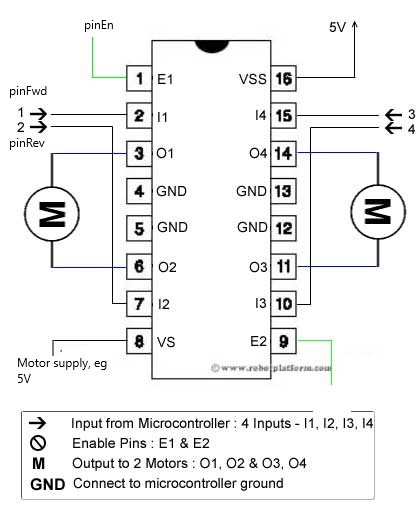
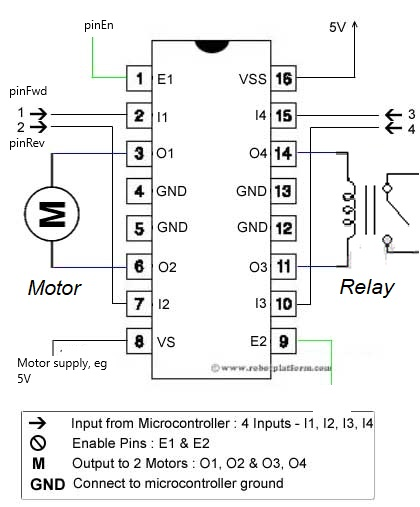
Updated readme and Circuits

Changed region(s): [[0.8048, 0.2959, 1.0, 0.5917], [0.0619, 0.5325, 0.1857, 0.5917]]

diff --git a/README.md b/README.md
@@ -24,7 +24,7 @@ Whereas the samples therein (from which this is taken, and extended) use library
 6. H-Bridge Motor using L293D
 
 Whilst the above run continously or until stopped the following only do a single pass. These are used by TRIGGERcmd
-
+11/12. Relay On/Off
 14. Temperature and Humidity with DHT22 sensor using 1-Wire. Get single value and write to /tmp/temperature.txt. See TRIGGERcmd.GetTempDHTxx1Wire()  
 
 The following control the motor as in 6 but as separate commands.
@@ -57,9 +57,16 @@ As above
 See circuit diagram under Circuits  .<br> Active pin is is GPIO26. I'm using a 10K pullup to that. <br>Some conversions fail, which output as dots. Doesn't work on IOT-Core.
 ## Motor
 See circuit diagram in Circuits folder, left part. <br>Pins (L293D pins in brackets):
-- Enable  GPIO 22 (E1)
+- Enable  GPIO 22 (E1) (L293D Enble 1)
 - Reverse GPIO 27 (I1) 
 - Forward GPIO 17 (I2)
+## Relay
+See circuit diagram in Circuits folder, right part. <br>Pins (L293D pins in brackets):
+- On/Off  GPIO 19 (E2)  _(L233D Enable 2)_
+- Lo (I4)               
+- Hi (I3)
+- _I4 and I3 only need to be in opposite state_
+- Probably want Motor disabled if is low voltage and relay is 12V coil voltage.
 <p>
 <b>On IoT-Core DO NOT RUN IN POWERSHELL.  Can't get user input for Console app in Remote PowerShell.<br> Run an SSH session.</b>Or directlly on the device.<br>
 I also attached a LED to each output.
